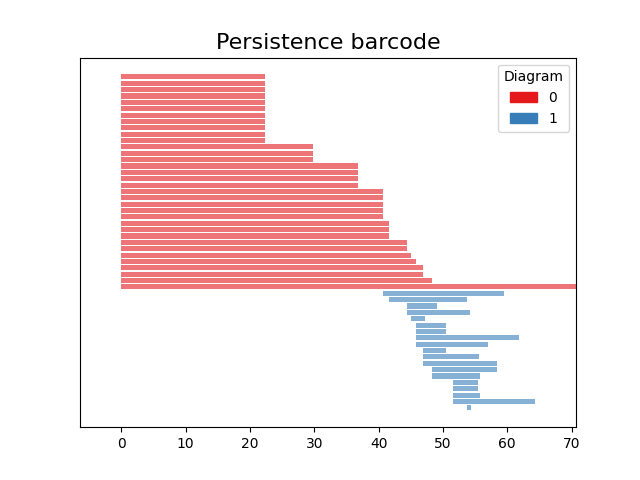
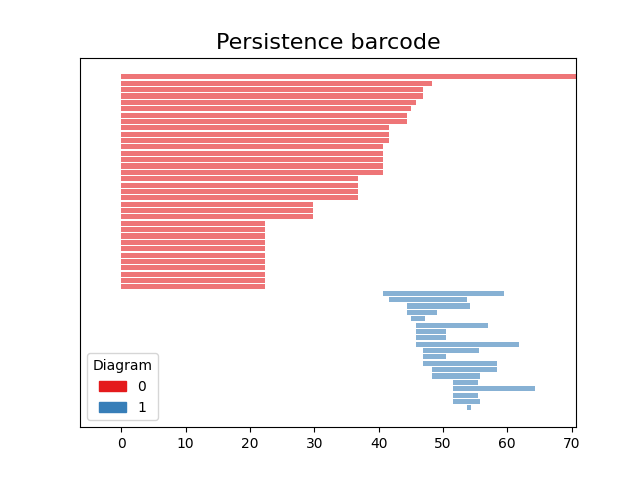
replace polyrhythms

Changed region(s): [[0.4062, 0.125, 0.9062, 0.75], [0.125, 0.75, 0.25, 0.875], [0.75, 0.7812, 0.8438, 0.8438]]

diff --git a/polyrhythms.py b/polyrhythms.py
@@ -23,7 +23,8 @@ def make_polyrhythms(low, hi):
 
 rips = ph_dft.calc_rips(make_polyrhythms(2,12), t=subdiv, p=2)
 #plot_diagrams(rips['dgms'], show = True)
-gudhi.plot_persistence_diagram(rips['dgms'])
+dgms = [ph_dft.birth_sorter(x) for x in rips['dgms']]
+gudhi.plot_persistence_diagram(dgms)
 plt.show()
-gudhi.plot_persistence_barcode(rips['dgms'])
+gudhi.plot_persistence_barcode(dgms)
 plt.show()

diff --git a/ph_dft.py b/ph_dft.py
@@ -3,6 +3,8 @@ import gudhi
 from scipy.spatial.distance import pdist, squareform
 from ripser import ripser
 
+birth_sorter = lambda x: x[np.argsort(x[:,0])][::-1]
+
 def make_bar_rep(bar_pairs,t = 8, p=24):
     # shape should be (p,t)
     accum = np.zeros((p,t)).astype(np.complex128)
